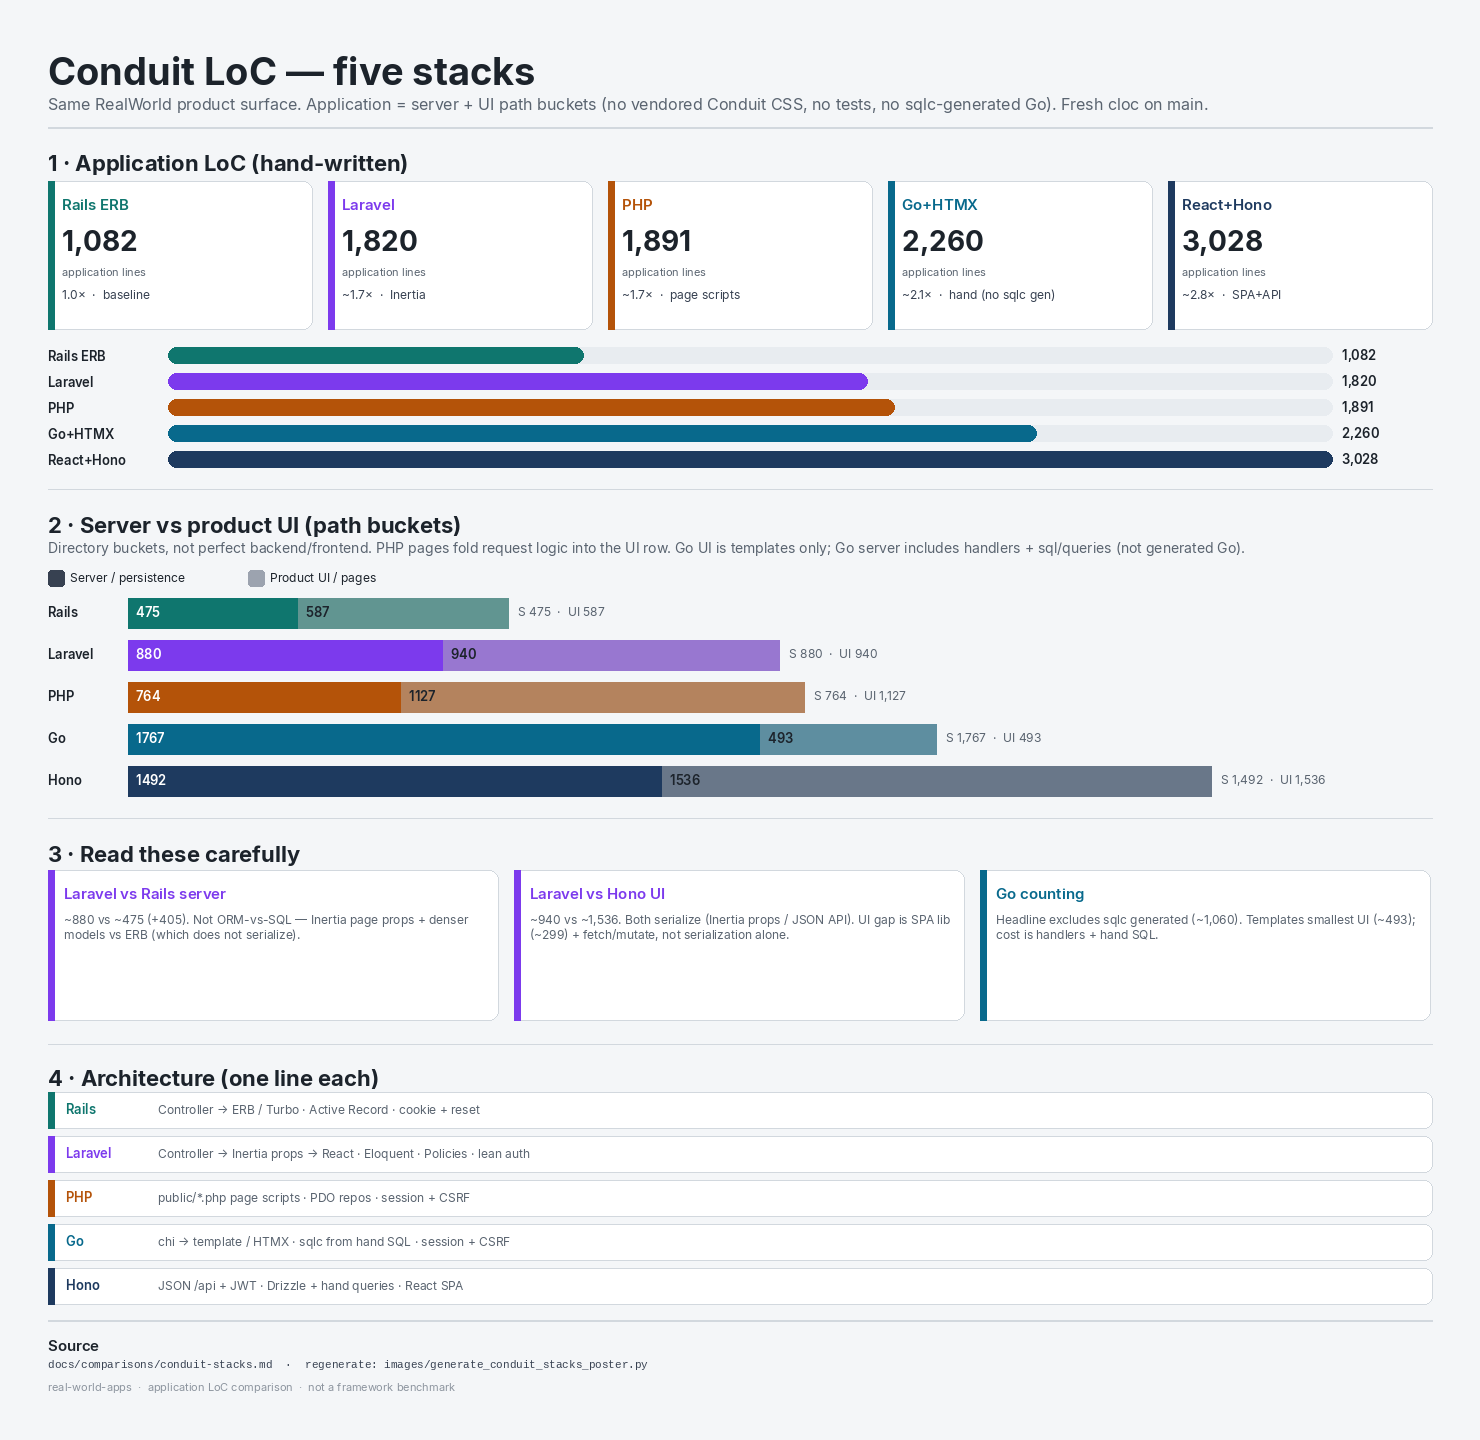
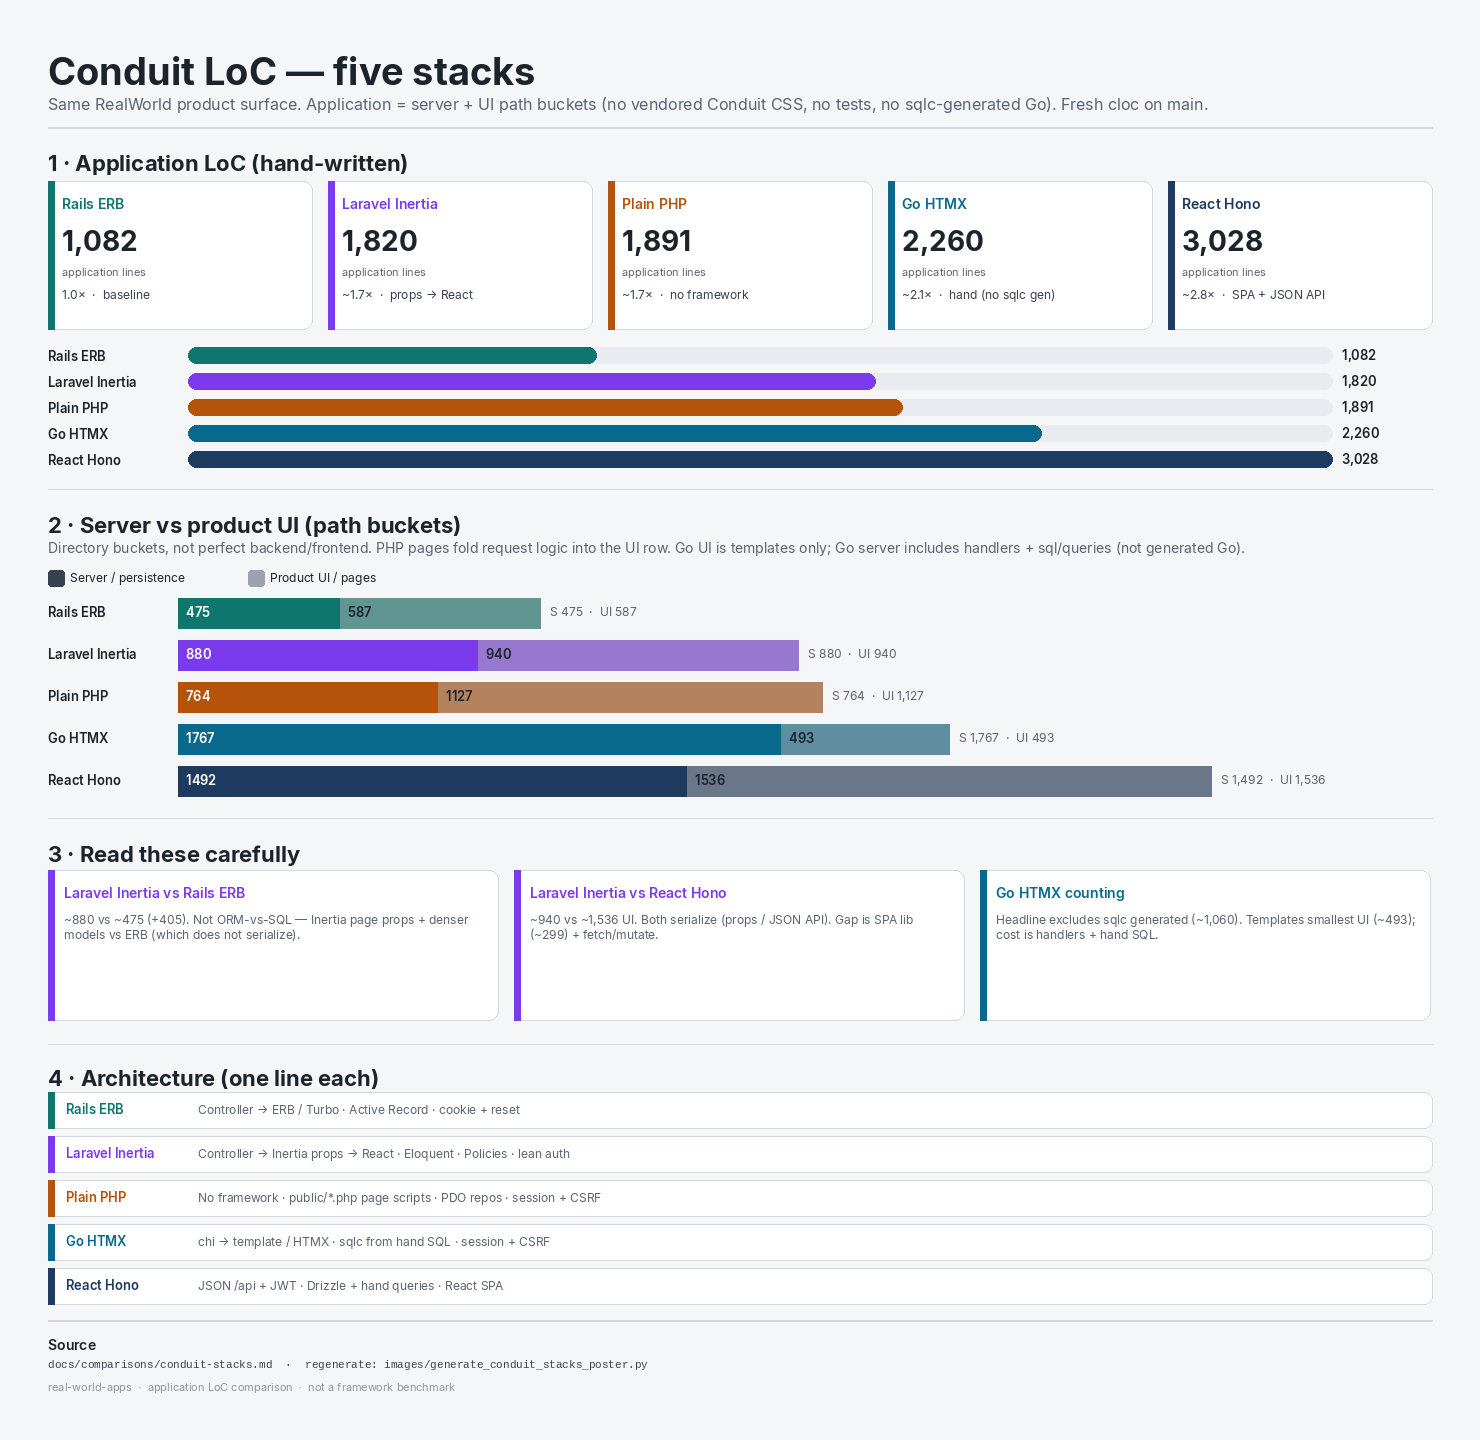
docs: use architecture names on five-stack LoC poster
Rails ERB, Laravel Inertia, Plain PHP (no framework), Go HTMX,
React Hono — labels and callouts match the architecture, not bare
framework nouns.

diff --git a/docs/comparisons/images/generate_conduit_stacks_poster.py b/docs/comparisons/images/generate_conduit_stacks_poster.py
@@ -36,22 +36,22 @@ ACCENT = (55, 65, 81)
 APPS = [
     # name, app_loc, ratio, color, short
     ("Rails ERB", 1082, "1.0×", RAILS, "baseline"),
-    ("Laravel", 1820, "~1.7×", LARAVEL, "Inertia"),
-    ("PHP", 1891, "~1.7×", PHP, "page scripts"),
-    ("Go+HTMX", 2260, "~2.1×", GO, "hand (no sqlc gen)"),
-    ("React+Hono", 3028, "~2.8×", HONO, "SPA+API"),
+    ("Laravel Inertia", 1820, "~1.7×", LARAVEL, "props → React"),
+    ("Plain PHP", 1891, "~1.7×", PHP, "no framework"),
+    ("Go HTMX", 2260, "~2.1×", GO, "hand (no sqlc gen)"),
+    ("React Hono", 3028, "~2.8×", HONO, "SPA + JSON API"),
 ]
 SERVER_UI = [
-    ("Rails", 475, 587, RAILS),
-    ("Laravel", 880, 940, LARAVEL),
-    ("PHP", 764, 1127, PHP),
-    ("Go", 1767, 493, GO),
-    ("Hono", 1492, 1536, HONO),
+    ("Rails ERB", 475, 587, RAILS),
+    ("Laravel Inertia", 880, 940, LARAVEL),
+    ("Plain PHP", 764, 1127, PHP),
+    ("Go HTMX", 1767, 493, GO),
+    ("React Hono", 1492, 1536, HONO),
 ]
 CALLOUTS = [
-    ("Laravel vs Rails server", "~880 vs ~475 (+405). Not ORM-vs-SQL — Inertia page props + denser models vs ERB (which does not serialize).", LARAVEL),
-    ("Laravel vs Hono UI", "~940 vs ~1,536. Both serialize (Inertia props / JSON API). UI gap is SPA lib (~299) + fetch/mutate, not serialization alone.", LARAVEL),
-    ("Go counting", "Headline excludes sqlc generated (~1,060). Templates smallest UI (~493); cost is handlers + hand SQL.", GO),
+    ("Laravel Inertia vs Rails ERB", "~880 vs ~475 (+405). Not ORM-vs-SQL — Inertia page props + denser models vs ERB (which does not serialize).", LARAVEL),
+    ("Laravel Inertia vs React Hono", "~940 vs ~1,536 UI. Both serialize (props / JSON API). Gap is SPA lib (~299) + fetch/mutate.", LARAVEL),
+    ("Go HTMX counting", "Headline excludes sqlc generated (~1,060). Templates smallest UI (~493); cost is handlers + hand SQL.", GO),
 ]
 
 FONT_CANDIDATES = {
@@ -163,7 +163,7 @@ def main() -> None:
     f_title = font(FONT_BOLD, 38)
     f_sub = font(FONT_REG, 16)
     f_h2 = font(FONT_BOLD, 22)
-    f_h3 = font(FONT_SEMI, 15)
+    f_h3 = font(FONT_SEMI, 14)
     f_body = font(FONT_REG, 14)
     f_small = font(FONT_REG, 12)
     f_tiny = font(FONT_REG, 11)
@@ -208,7 +208,7 @@ def main() -> None:
 
     y += card_h + 18
     vmax = max(loc for _, loc, *_ in APPS)
-    bar_x = MARGIN + 120
+    bar_x = MARGIN + 140
     bar_w = W - MARGIN - bar_x - 100
     for name, loc, ratio, color, note in APPS:
         d.text((MARGIN, y + 1), name, font=f_label, fill=INK)
@@ -242,7 +242,7 @@ def main() -> None:
     y += 28
 
     total_max = max(s + u for _, s, u, _ in SERVER_UI)
-    label_w = 80
+    label_w = 130
     bar_h = 30
     for name, server, ui, color in SERVER_UI:
         d.text((MARGIN, y + 6), name, font=f_label, fill=INK)
@@ -289,17 +289,17 @@ def main() -> None:
     d.text((MARGIN, y), "4 · Architecture (one line each)", font=f_h2, fill=INK)
     y += 28
     rows = [
-        ("Rails", "Controller → ERB / Turbo · Active Record · cookie + reset", RAILS),
-        ("Laravel", "Controller → Inertia props → React · Eloquent · Policies · lean auth", LARAVEL),
-        ("PHP", "public/*.php page scripts · PDO repos · session + CSRF", PHP),
-        ("Go", "chi → template / HTMX · sqlc from hand SQL · session + CSRF", GO),
-        ("Hono", "JSON /api + JWT · Drizzle + hand queries · React SPA", HONO),
+        ("Rails ERB", "Controller → ERB / Turbo · Active Record · cookie + reset", RAILS),
+        ("Laravel Inertia", "Controller → Inertia props → React · Eloquent · Policies · lean auth", LARAVEL),
+        ("Plain PHP", "No framework · public/*.php page scripts · PDO repos · session + CSRF", PHP),
+        ("Go HTMX", "chi → template / HTMX · sqlc from hand SQL · session + CSRF", GO),
+        ("React Hono", "JSON /api + JWT · Drizzle + hand queries · React SPA", HONO),
     ]
     for name, blurb, color in rows:
         rounded_rect(d, (MARGIN, y, W - MARGIN, y + 36), 8, CARD, RULE, 1)
         d.rectangle((MARGIN, y, MARGIN + 6, y + 36), fill=color)
         d.text((MARGIN + 18, y + 9), name, font=f_label, fill=color)
-        d.text((MARGIN + 110, y + 10), blurb, font=f_small, fill=MUTED)
+        d.text((MARGIN + 150, y + 10), blurb, font=f_small, fill=MUTED)
         y += 44
 
     y += 8

diff --git a/docs/comparisons/images/README.md b/docs/comparisons/images/README.md
@@ -25,12 +25,12 @@ Application totals (hand-written; no vendored CSS, no tests, no sqlc gen):
 | Stack | Application | Server | UI |
 | --- | ---: | ---: | ---: |
 | Rails ERB | 1,082 | 475 | 587 |
-| Laravel | 1,820 | 880 | 940 |
-| PHP | 1,891 | 764 | 1,127 |
-| Go + HTMX | 2,260 | 1,767 | 493 |
-| React + Hono | 3,028 | 1,492 | 1,536 |
+| Laravel Inertia | 1,820 | 880 | 940 |
+| Plain PHP (no framework) | 1,891 | 764 | 1,127 |
+| Go HTMX | 2,260 | 1,767 | 493 |
+| React Hono | 3,028 | 1,492 | 1,536 |
 
-Design: same slate paper / ink / muted tokens as the three-stack poster; stack accents teal (Rails), violet (Laravel), amber (PHP), cyan (Go), navy (Hono).
+Poster labels use architecture names (Rails ERB, Laravel Inertia, Plain PHP, Go HTMX, React Hono). Design: same slate paper / ink / muted tokens as the three-stack poster; accents teal / violet / amber / cyan / navy.
 
 ## Three-stack poster (legacy)
 
